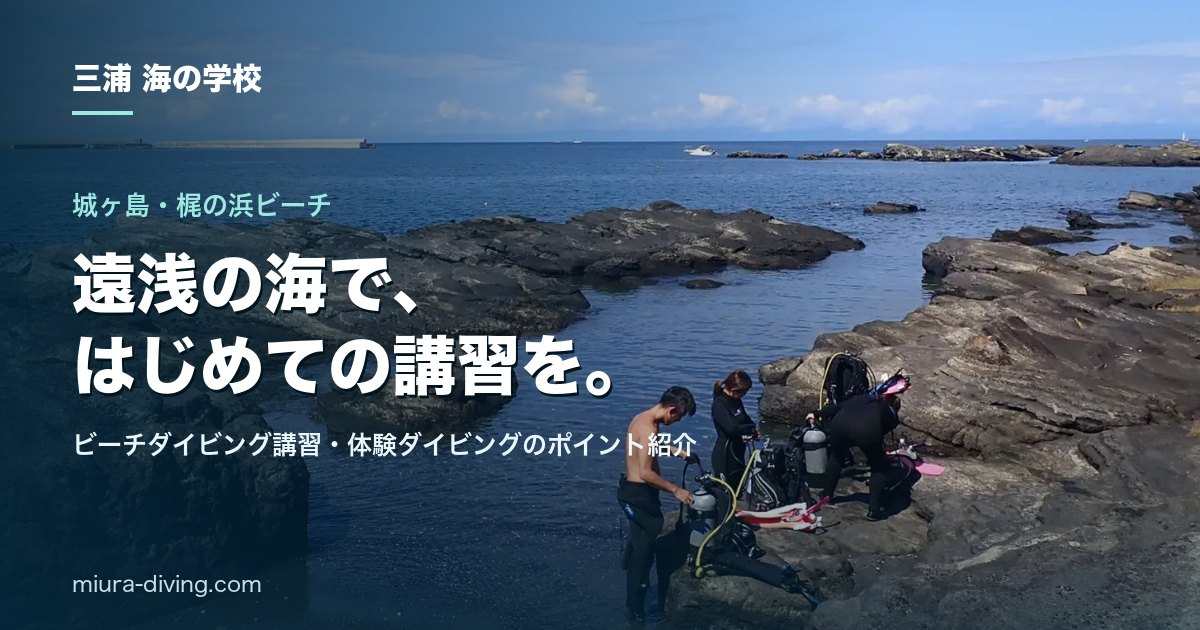
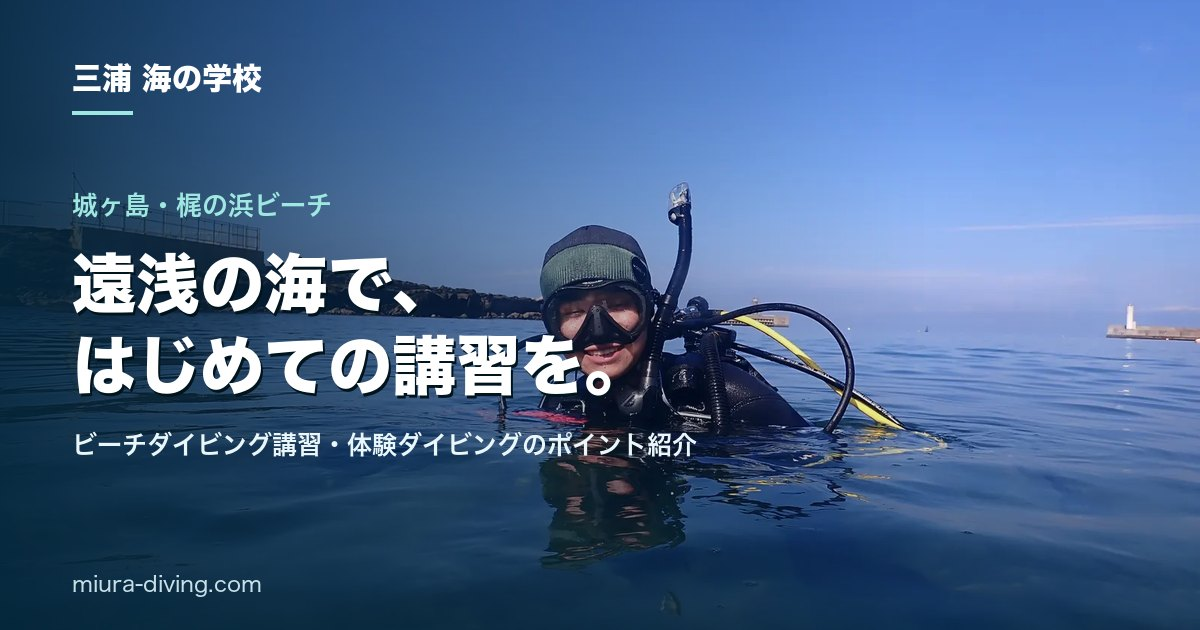
場所の写真を吉田さん確認済みのものに差し替え、ファンダイビングに梶の浜のポイントマップを戻す
- 城ヶ島・梶の浜ビーチ：岩場の写真（miura-hero2・梶の浜ではない）→ 白い灯台の堤防が写る水面の写真（P9248333 / P9088189）
  ファンダイビング・ライセンス・神奈川・図鑑・スノーケリングの各カードと、梶の浜ページのヒーロー・OGP
- 城ヶ島ボート：浮き桟橋の写真 → 船の上のタンクの写真（P9108194）。ボートのプランは宮川湾（9/13）の写真に
- ファンダイビングの「潜る場所」に梶の浜のポイントマップを戻し、カサゴ根・トビ根と3枚並べた
- 写真の上に文字が重なって顔が隠れないよう、場所カードを縦長に（page.css?v=2026092802）

diff --git a/fun-diving/index.html b/fun-diving/index.html
@@ -36,7 +36,7 @@
   <script>document.documentElement.classList.add('js')</script>
   <link rel="preload" as="image" href="/image/sub/fun-hero-800.webp" imagesrcset="/image/sub/fun-hero-800.webp 800w, /image/sub/fun-hero-1600.webp 1600w" imagesizes="100vw" fetchpriority="high">
   <link rel="stylesheet" href="/css/style.css?v=20260905">
-  <link rel="stylesheet" href="/css/page.css?v=2026092801">
+  <link rel="stylesheet" href="/css/page.css?v=2026092802">
 
   <!-- Webフォントは表示を止めない（display=optional：間に合わなければ端末の丸ゴシックで描き、文字のずれを起こさない） -->
   <link rel="preconnect" href="https://fonts.googleapis.com">
@@ -370,7 +370,7 @@
 
         <div class="grid grid--3">
           <div class="card plan">
-            <span class="card__img"><img src="/image/sub/surface-blue-960.webp" alt="晴れた日の三浦の海で、水面に浮かんでエントリーを待つダイバー" width="960" height="720" loading="lazy" decoding="async"></span>
+            <span class="card__img"><img src="/image/sub/beach-surface-960.webp" alt="城ヶ島・梶の浜ビーチの水面で、笑顔を見せるダイバー" width="960" height="720" loading="lazy" decoding="async"></span>
             <span class="tag">はじめてのファンダイビングにも</span>
             <h3>ビーチダイビング<small>2ダイブ・城ヶ島</small></h3>
             <p class="price">¥13,200<small>税込</small></p>
@@ -382,7 +382,7 @@
             <a class="btn-line" href="https://lin.ee/kK3d5p2" target="_blank" rel="noopener noreferrer" data-line-msg="ビーチのファンダイビングの空き日程を知りたいです。"><span class="line-mark"><svg aria-hidden="true"><use href="#i-line"/></svg></span>ビーチの空きを聞く</a>
           </div>
           <div class="card plan">
-            <span class="card__img"><img src="/image/sub/boat-tank-960.webp" alt="ボートダイビングの船の上に並ぶタンクとBCD" width="960" height="720" loading="lazy" decoding="async"></span>
+            <span class="card__img"><img src="/image/sub/boat-divers-960.webp" alt="宮川湾のボートダイビングで、ロープのそばを潜っていくダイバーたち" width="960" height="720" loading="lazy" decoding="async"></span>
             <span class="tag">船でしか行けない海へ</span>
             <h3>ボートダイビング<small>2ダイブ・宮川湾／城ヶ島</small></h3>
             <p class="price">¥19,800<small>税込</small></p>
@@ -477,7 +477,7 @@
 
         <div class="places">
           <a class="place" href="/diving-point/jogashima-kajinohama/">
-            <img src="/image/optimized/miura-hero2.webp" alt="城ヶ島の岩場の海と、エントリーの準備をするダイバーたち" width="1600" height="667" loading="lazy" decoding="async">
+            <img src="/image/sub/kajinohama-card-960.webp" alt="城ヶ島・梶の浜ビーチの穏やかな水面で、笑顔でエントリーを待つダイバー" width="960" height="562" loading="lazy" decoding="async">
             <div class="place__in">
               <span class="place__no">BEACH — JOGASHIMA</span>
               <h3>城ヶ島・梶の浜ビーチ</h3>
@@ -495,7 +495,7 @@
             </div>
           </div>
           <div class="place">
-            <img src="/image/sub/boat-entry-960.webp" alt="港の浮き桟橋から、タンクを背負って海へ向かうダイバー" width="960" height="720" loading="lazy" decoding="async">
+            <img src="/image/sub/boat-tank-960.webp" alt="城ヶ島のボートダイビングで、船の上に並ぶタンクとBCD" width="960" height="720" loading="lazy" decoding="async">
             <div class="place__in">
               <span class="place__no">BOAT — JOGASHIMA</span>
               <h3>城ヶ島ボート</h3>
@@ -505,8 +505,18 @@
           </div>
         </div>
 
-        <h3 class="h-title mt-2" style="font-size:clamp(1.2rem,2.8vw,1.5rem)">宮川湾のボートポイント</h3>
-        <div class="maps">
+        <h3 class="h-title mt-2" style="font-size:clamp(1.2rem,2.8vw,1.5rem)">ポイントマップ<span class="nw">（城ヶ島ビーチ・宮川湾ボート）</span></h3>
+        <div class="maps maps--3">
+          <article class="map-card">
+            <figure><a href="/diving-point/jogashima-kajinohama/"><img src="/image/sub/kajinohama-map-900.webp" srcset="/image/sub/kajinohama-map-900.webp 900w, /image/jogashima-kajinohama-map.webp 1800w" sizes="(min-width: 960px) 360px, 100vw" alt="城ヶ島 梶の浜ビーチのポイントマップ。手前の護岸の左奥にエントリー階段があり、海には大きな岩盤がいくつも並び、そのあいだに砂地が広がる。外周ルートとコース、目印ブイの位置を描いている" width="1800" height="2548" loading="lazy" decoding="async"></a></figure>
+            <div class="map-card__body">
+              <h4 class="h-title" style="font-size:1.12rem;margin-bottom:.3rem">城ヶ島・梶の浜ビーチ</h4>
+              <span class="depth">ビーチ</span>
+              <p>ビーチダイビングでは、海況に合わせて城ヶ島の梶の浜ビーチポイントを利用することがあります。岩場のウミウシ、砂地のエイ、季節来遊魚など、浅場から三浦らしい生き物観察を楽しめます。</p>
+              <ul class="chips"><li>岩場のウミウシ</li><li>砂地のエイ</li><li>秋の季節来遊魚</li></ul>
+              <p class="mt-1"><a class="link-arrow" href="/diving-point/jogashima-kajinohama/">ポイント紹介と地図の見方</a></p>
+            </div>
+          </article>
           <article class="map-card">
             <figure><img src="/image/miyagawa-kasagone-map.webp" alt="宮川湾カサゴ根の水中マップ。根の上は水深約4m、周囲の砂地は水深14〜18m。ブイからガイドロープで根へ移動する" width="1024" height="1536" loading="lazy" decoding="async"></figure>
             <div class="map-card__body">

diff --git a/.agents/subpages-2026-09/pages/fun-diving.html b/.agents/subpages-2026-09/pages/fun-diving.html
@@ -83,7 +83,7 @@ META-->
 
         <div class="grid grid--3">
           <div class="card plan">
-            <span class="card__img"><img src="/image/sub/surface-blue-960.webp" alt="晴れた日の三浦の海で、水面に浮かんでエントリーを待つダイバー" width="960" height="720" loading="lazy" decoding="async"></span>
+            <span class="card__img"><img src="/image/sub/beach-surface-960.webp" alt="城ヶ島・梶の浜ビーチの水面で、笑顔を見せるダイバー" width="960" height="720" loading="lazy" decoding="async"></span>
             <span class="tag">はじめてのファンダイビングにも</span>
             <h3>ビーチダイビング<small>2ダイブ・城ヶ島</small></h3>
             <p class="price">¥13,200<small>税込</small></p>
@@ -95,7 +95,7 @@ META-->
             <a class="btn-line" href="https://lin.ee/kK3d5p2" target="_blank" rel="noopener noreferrer" data-line-msg="ビーチのファンダイビングの空き日程を知りたいです。"><span class="line-mark"><svg aria-hidden="true"><use href="#i-line"/></svg></span>ビーチの空きを聞く</a>
           </div>
           <div class="card plan">
-            <span class="card__img"><img src="/image/sub/boat-tank-960.webp" alt="ボートダイビングの船の上に並ぶタンクとBCD" width="960" height="720" loading="lazy" decoding="async"></span>
+            <span class="card__img"><img src="/image/sub/boat-divers-960.webp" alt="宮川湾のボートダイビングで、ロープのそばを潜っていくダイバーたち" width="960" height="720" loading="lazy" decoding="async"></span>
             <span class="tag">船でしか行けない海へ</span>
             <h3>ボートダイビング<small>2ダイブ・宮川湾／城ヶ島</small></h3>
             <p class="price">¥19,800<small>税込</small></p>
@@ -190,7 +190,7 @@ META-->
 
         <div class="places">
           <a class="place" href="/diving-point/jogashima-kajinohama/">
-            <img src="/image/optimized/miura-hero2.webp" alt="城ヶ島の岩場の海と、エントリーの準備をするダイバーたち" width="1600" height="667" loading="lazy" decoding="async">
+            <img src="/image/sub/kajinohama-card-960.webp" alt="城ヶ島・梶の浜ビーチの穏やかな水面で、笑顔でエントリーを待つダイバー" width="960" height="562" loading="lazy" decoding="async">
             <div class="place__in">
               <span class="place__no">BEACH — JOGASHIMA</span>
               <h3>城ヶ島・梶の浜ビーチ</h3>
@@ -208,7 +208,7 @@ META-->
             </div>
           </div>
           <div class="place">
-            <img src="/image/sub/boat-entry-960.webp" alt="港の浮き桟橋から、タンクを背負って海へ向かうダイバー" width="960" height="720" loading="lazy" decoding="async">
+            <img src="/image/sub/boat-tank-960.webp" alt="城ヶ島のボートダイビングで、船の上に並ぶタンクとBCD" width="960" height="720" loading="lazy" decoding="async">
             <div class="place__in">
               <span class="place__no">BOAT — JOGASHIMA</span>
               <h3>城ヶ島ボート</h3>
@@ -218,8 +218,18 @@ META-->
           </div>
         </div>
 
-        <h3 class="h-title mt-2" style="font-size:clamp(1.2rem,2.8vw,1.5rem)">宮川湾のボートポイント</h3>
-        <div class="maps">
+        <h3 class="h-title mt-2" style="font-size:clamp(1.2rem,2.8vw,1.5rem)">ポイントマップ<span class="nw">（城ヶ島ビーチ・宮川湾ボート）</span></h3>
+        <div class="maps maps--3">
+          <article class="map-card">
+            <figure><a href="/diving-point/jogashima-kajinohama/"><img src="/image/sub/kajinohama-map-900.webp" srcset="/image/sub/kajinohama-map-900.webp 900w, /image/jogashima-kajinohama-map.webp 1800w" sizes="(min-width: 960px) 360px, 100vw" alt="城ヶ島 梶の浜ビーチのポイントマップ。手前の護岸の左奥にエントリー階段があり、海には大きな岩盤がいくつも並び、そのあいだに砂地が広がる。外周ルートとコース、目印ブイの位置を描いている" width="1800" height="2548" loading="lazy" decoding="async"></a></figure>
+            <div class="map-card__body">
+              <h4 class="h-title" style="font-size:1.12rem;margin-bottom:.3rem">城ヶ島・梶の浜ビーチ</h4>
+              <span class="depth">ビーチ</span>
+              <p>ビーチダイビングでは、海況に合わせて城ヶ島の梶の浜ビーチポイントを利用することがあります。岩場のウミウシ、砂地のエイ、季節来遊魚など、浅場から三浦らしい生き物観察を楽しめます。</p>
+              <ul class="chips"><li>岩場のウミウシ</li><li>砂地のエイ</li><li>秋の季節来遊魚</li></ul>
+              <p class="mt-1"><a class="link-arrow" href="/diving-point/jogashima-kajinohama/">ポイント紹介と地図の見方</a></p>
+            </div>
+          </article>
           <article class="map-card">
             <figure><img src="/image/miyagawa-kasagone-map.webp" alt="宮川湾カサゴ根の水中マップ。根の上は水深約4m、周囲の砂地は水深14〜18m。ブイからガイドロープで根へ移動する" width="1024" height="1536" loading="lazy" decoding="async"></figure>
             <div class="map-card__body">

diff --git a/diving-point/jogashima-kajinohama/index.html b/diving-point/jogashima-kajinohama/index.html
@@ -34,8 +34,9 @@
   <meta name="twitter:image" content="https://miura-diving.com/image/og-kajinohama.jpg">
 
   <script>document.documentElement.classList.add('js')</script>
+  <link rel="preload" as="image" href="/image/sub/trial-hero-800.webp" imagesrcset="/image/sub/trial-hero-800.webp 800w, /image/sub/trial-hero-1600.webp 1600w" imagesizes="100vw" fetchpriority="high">
   <link rel="stylesheet" href="/css/style.css?v=20260905">
-  <link rel="stylesheet" href="/css/page.css?v=2026092801">
+  <link rel="stylesheet" href="/css/page.css?v=2026092802">
 
   <!-- Webフォントは表示を止めない（display=optional：間に合わなければ端末の丸ゴシックで描き、文字のずれを起こさない） -->
   <link rel="preconnect" href="https://fonts.googleapis.com">
@@ -101,7 +102,7 @@
         ],
         "description": "神奈川県三浦市・城ヶ島のビーチダイビングポイント。エントリー階段から岩場・砂地へアクセスでき、浅場から少しずつ深くなる遠浅の海。三浦 海の学校のビーチダイビングやダイビングライセンス講習で、海況に合わせて利用することがある。",
         "url": "https://miura-diving.com/diving-point/jogashima-kajinohama/",
-        "image": "https://miura-diving.com/image/optimized/miura-hero2.webp",
+        "image": "https://miura-diving.com/image/sub/trial-hero-1600.webp",
         "hasMap": {
           "@type": "Map",
           "mapType": "https://schema.org/VenueMap",
@@ -242,10 +243,10 @@
     <!-- ============================================================
          HERO
          ============================================================ -->
-    <section class="ph" aria-labelledby="page-title" style="--pos: 62% 60%">
+    <section class="ph" aria-labelledby="page-title" style="--pos: 55% 45%">
       <picture class="ph__bg">
-        <img src="/image/optimized/miura-hero2.webp"
-          alt="城ヶ島の岩場に囲まれた浅い入り江で、エントリーの準備をするダイバーたち" width="1600" height="667" fetchpriority="high" decoding="async">
+        <img src="/image/sub/trial-hero-1600.webp" srcset="/image/sub/trial-hero-800.webp 800w, /image/sub/trial-hero-1600.webp 1600w" sizes="100vw"
+          alt="城ヶ島・梶の浜ビーチの穏やかな水面で、笑顔でエントリーを待つダイバー" width="1600" height="1200" fetchpriority="high" decoding="async">
       </picture>
       <div class="ph__inner">
         <nav class="crumbs" aria-label="パンくずリスト">
@@ -529,7 +530,7 @@
         </div>
         <div class="grid grid--3">
           <a class="card" href="/trial-diving/">
-            <span class="card__img"><img src="/image/sub/trial-hero-800.webp" alt="晴れた日の三浦の海で、水面に浮かんでエントリーを待つダイバー" width="800" height="600" loading="lazy" decoding="async"></span>
+            <span class="card__img"><img src="/image/optimized/enjoy-shallow-peace.webp" alt="城ヶ島の浅瀬で笑顔でピースする体験ダイビングの参加者" width="800" height="534" loading="lazy" decoding="async"></span>
             <span class="tag">ライセンスがなくても</span>
             <h3>体験ダイビング<small>¥19,800（税込・レンタル器材込み）</small></h3>
             <p>はじめての方は、体験ダイビングから。穏やかな浅場で練習してから海へ。海に慣れるところから丁寧に進めます。</p>

diff --git a/.agents/subpages-2026-09/pages/kajinohama.html b/.agents/subpages-2026-09/pages/kajinohama.html
@@ -9,6 +9,7 @@
   "ogDesc": "城ヶ島・梶の浜ビーチのポイントマップ、会える生き物、潜る日の流れ。ビーチ講習・体験ダイビング・ファンダイビングで使うことがある、三浦の遠浅の海です。",
   "og": "/image/og-kajinohama.jpg",
   "ogAlt": "城ヶ島の岩場の海で、潜る準備をするダイバーたちと「遠浅の海で、はじめての講習を。」の文字",
+  "hero": {"800": "/image/sub/trial-hero-800.webp", "1600": "/image/sub/trial-hero-1600.webp"},
   "crumbs": [["城ヶ島・梶の浜ビーチ", "/diving-point/jogashima-kajinohama/"]],
   "about": "https://miura-diving.com/diving-point/jogashima-kajinohama/#place",
   "ask": {
@@ -24,10 +25,10 @@ META-->
     <!-- ============================================================
          HERO
          ============================================================ -->
-    <section class="ph" aria-labelledby="page-title" style="--pos: 62% 60%">
+    <section class="ph" aria-labelledby="page-title" style="--pos: 55% 45%">
       <picture class="ph__bg">
-        <img src="/image/optimized/miura-hero2.webp"
-          alt="城ヶ島の岩場に囲まれた浅い入り江で、エントリーの準備をするダイバーたち" width="1600" height="667" fetchpriority="high" decoding="async">
+        <img src="/image/sub/trial-hero-1600.webp" srcset="/image/sub/trial-hero-800.webp 800w, /image/sub/trial-hero-1600.webp 1600w" sizes="100vw"
+          alt="城ヶ島・梶の浜ビーチの穏やかな水面で、笑顔でエントリーを待つダイバー" width="1600" height="1200" fetchpriority="high" decoding="async">
       </picture>
       <div class="ph__inner">
         <nav class="crumbs" aria-label="パンくずリスト">
@@ -311,7 +312,7 @@ META-->
         </div>
         <div class="grid grid--3">
           <a class="card" href="/trial-diving/">
-            <span class="card__img"><img src="/image/sub/trial-hero-800.webp" alt="晴れた日の三浦の海で、水面に浮かんでエントリーを待つダイバー" width="800" height="600" loading="lazy" decoding="async"></span>
+            <span class="card__img"><img src="/image/optimized/enjoy-shallow-peace.webp" alt="城ヶ島の浅瀬で笑顔でピースする体験ダイビングの参加者" width="800" height="534" loading="lazy" decoding="async"></span>
             <span class="tag">ライセンスがなくても</span>
             <h3>体験ダイビング<small>¥19,800（税込・レンタル器材込み）</small></h3>
             <p>はじめての方は、体験ダイビングから。穏やかな浅場で練習してから海へ。海に慣れるところから丁寧に進めます。</p>

diff --git a/css/page.css b/css/page.css
@@ -570,7 +570,7 @@ a.card:hover .card__img img { transform: scale(1.04); }
    PLACES — 海洋実習・ダイビングの場所（写真カード）
    ================================================================ */
 .places { display: grid; grid-template-columns: repeat(3, minmax(0, 1fr)); gap: 1rem; }
-.place { position: relative; border-radius: 24px; overflow: hidden; color: #fff; min-height: 300px; display: flex; flex-direction: column; justify-content: flex-end; text-decoration: none; background: var(--deep-3); isolation: isolate; }
+.place { position: relative; border-radius: 24px; overflow: hidden; color: #fff; min-height: 370px; display: flex; flex-direction: column; justify-content: flex-end; text-decoration: none; background: var(--deep-3); isolation: isolate; }
 .place img { position: absolute; inset: 0; width: 100%; height: 100%; object-fit: cover; z-index: -2; transition: transform .7s ease; }
 .place::before { content: ""; position: absolute; inset: 0; z-index: -1; background: linear-gradient(180deg, rgba(4, 38, 58, 0) 30%, rgba(4, 38, 58, .88) 100%); }
 a.place:hover img { transform: scale(1.05); }
@@ -581,7 +581,7 @@ a.place:hover { color: #fff; }
 .place p { font-size: .85rem; line-height: 1.75; opacity: .94; }
 .place .chips li { background: rgba(255, 255, 255, .16); color: #fff; }
 @media (max-width: 959px) { .places { grid-template-columns: 1fr 1fr; } }
-@media (max-width: 640px) { .places { grid-template-columns: minmax(0, 1fr); } .place { min-height: 260px; } }
+@media (max-width: 640px) { .places { grid-template-columns: minmax(0, 1fr); } .place { min-height: 400px; } }
 
 /* ---------- 地図（手描きのポイントマップ） ---------- */
 .maps { display: grid; grid-template-columns: repeat(2, minmax(0, 1fr)); gap: 1rem; }
@@ -594,6 +594,8 @@ a.place:hover { color: #fff; }
 .map-card__body .depth { display: inline-block; font-size: .76rem; font-weight: 700; color: #fff; background: var(--sky-ink); border-radius: 999px; padding: .15rem .7rem; margin-bottom: .5rem; }
 .map-card__body p { font-size: .9rem; line-height: 1.85; color: var(--text-sub); }
 .map-card__body .chips { margin-top: .7rem; }
+@media (min-width: 960px) { .maps--3 { grid-template-columns: repeat(3, minmax(0, 1fr)); } }
+@media (min-width: 768px) and (max-width: 959px) { .maps--3 .map-card:first-child { grid-column: 1 / -1; } .maps--3 .map-card:first-child figure img { max-height: 460px; } }
 @media (max-width: 767px) { .maps { grid-template-columns: minmax(0, 1fr); } }
 
 /* ---------- 生き物のギャラリー ---------- */

diff --git a/sea-life/index.html b/sea-life/index.html
@@ -35,7 +35,7 @@
 
   <script>document.documentElement.classList.add('js')</script>
   <link rel="stylesheet" href="/css/style.css?v=20260905">
-  <link rel="stylesheet" href="/css/page.css?v=2026092801">
+  <link rel="stylesheet" href="/css/page.css?v=2026092802">
 
   <!-- Webフォントは表示を止めない（display=optional：間に合わなければ端末の丸ゴシックで描き、文字のずれを起こさない） -->
   <link rel="preconnect" href="https://fonts.googleapis.com">
@@ -617,14 +617,14 @@
             <span class="go">ファンダイビングを見る</span>
           </a>
           <a class="card" href="/diving-point/jogashima-kajinohama/">
-            <span class="card__img"><img src="/image/optimized/miura-hero2.webp" alt="城ヶ島の岩場に囲まれた浅い入り江で、エントリーの準備をするダイバーたち" width="1600" height="667" loading="lazy" decoding="async"></span>
+            <span class="card__img"><img src="/image/sub/surface-blue-960.webp" alt="城ヶ島・梶の浜ビーチの穏やかな水面で、笑顔でエントリーを待つダイバー" width="960" height="720" loading="lazy" decoding="async"></span>
             <span class="tag">ビーチのポイント</span>
             <h3>城ヶ島・梶の浜ビーチ<small>ポイントマップと、会える生き物</small></h3>
             <p>エントリー階段、岩盤、砂地、目印ブイ。ビーチで観察しやすい生き物も紹介しています。</p>
             <span class="go">ポイントマップを見る</span>
           </a>
           <a class="card" href="/trial-diving/">
-            <span class="card__img"><img src="/image/sub/trial-hero-800.webp" alt="晴れた日の三浦の海で、水面に浮かんでエントリーを待つダイバー" width="800" height="600" loading="lazy" decoding="async"></span>
+            <span class="card__img"><img src="/image/optimized/enjoy-shallow-peace.webp" alt="城ヶ島の浅瀬で笑顔でピースする体験ダイビングの参加者" width="800" height="534" loading="lazy" decoding="async"></span>
             <span class="tag">ライセンスがなくても</span>
             <h3>体験ダイビング<small>¥19,800（税込・レンタル器材込み）</small></h3>
             <p>Cカードがなくても、インストラクターと一緒に三浦の海へ。10歳から、年齢の上限はありません。</p>

diff --git a/.agents/subpages-2026-09/pages/sea-life.html b/.agents/subpages-2026-09/pages/sea-life.html
@@ -485,14 +485,14 @@ META-->
             <span class="go">ファンダイビングを見る</span>
           </a>
           <a class="card" href="/diving-point/jogashima-kajinohama/">
-            <span class="card__img"><img src="/image/optimized/miura-hero2.webp" alt="城ヶ島の岩場に囲まれた浅い入り江で、エントリーの準備をするダイバーたち" width="1600" height="667" loading="lazy" decoding="async"></span>
+            <span class="card__img"><img src="/image/sub/surface-blue-960.webp" alt="城ヶ島・梶の浜ビーチの穏やかな水面で、笑顔でエントリーを待つダイバー" width="960" height="720" loading="lazy" decoding="async"></span>
             <span class="tag">ビーチのポイント</span>
             <h3>城ヶ島・梶の浜ビーチ<small>ポイントマップと、会える生き物</small></h3>
             <p>エントリー階段、岩盤、砂地、目印ブイ。ビーチで観察しやすい生き物も紹介しています。</p>
             <span class="go">ポイントマップを見る</span>
           </a>
           <a class="card" href="/trial-diving/">
-            <span class="card__img"><img src="/image/sub/trial-hero-800.webp" alt="晴れた日の三浦の海で、水面に浮かんでエントリーを待つダイバー" width="800" height="600" loading="lazy" decoding="async"></span>
+            <span class="card__img"><img src="/image/optimized/enjoy-shallow-peace.webp" alt="城ヶ島の浅瀬で笑顔でピースする体験ダイビングの参加者" width="800" height="534" loading="lazy" decoding="async"></span>
             <span class="tag">ライセンスがなくても</span>
             <h3>体験ダイビング<small>¥19,800（税込・レンタル器材込み）</small></h3>
             <p>Cカードがなくても、インストラクターと一緒に三浦の海へ。10歳から、年齢の上限はありません。</p>

diff --git a/kanagawa-diving-license/index.html b/kanagawa-diving-license/index.html
@@ -36,7 +36,7 @@
   <script>document.documentElement.classList.add('js')</script>
   <link rel="preload" as="image" href="/image/sub/kanagawa-hero-800.webp" imagesrcset="/image/sub/kanagawa-hero-800.webp 800w, /image/sub/kanagawa-hero-1600.webp 1600w" imagesizes="100vw" fetchpriority="high">
   <link rel="stylesheet" href="/css/style.css?v=20260905">
-  <link rel="stylesheet" href="/css/page.css?v=2026092801">
+  <link rel="stylesheet" href="/css/page.css?v=2026092802">
 
   <!-- Webフォントは表示を止めない（display=optional：間に合わなければ端末の丸ゴシックで描き、文字のずれを起こさない） -->
   <link rel="preconnect" href="https://fonts.googleapis.com">
@@ -578,7 +578,7 @@
             <span class="go">ガイドを読む</span>
           </a>
           <a class="card" href="/diving-point/jogashima-kajinohama/">
-            <span class="card__img"><img src="/image/optimized/miura-hero2.webp" alt="城ヶ島の岩場の海で、講習の準備をするダイバーたち" width="1600" height="667" loading="lazy" decoding="async"></span>
+            <span class="card__img"><img src="/image/sub/surface-blue-960.webp" alt="城ヶ島・梶の浜ビーチの穏やかな水面で、笑顔でエントリーを待つダイバー" width="960" height="720" loading="lazy" decoding="async"></span>
             <span class="tag">実習の海</span>
             <h3>城ヶ島・梶の浜ビーチ</h3>
             <p>オープンウォーターの実習の中心になる、遠浅のビーチポイント。</p>

diff --git a/license/index.html b/license/index.html
@@ -36,7 +36,7 @@
   <script>document.documentElement.classList.add('js')</script>
   <link rel="preload" as="image" href="/image/sub/license-hero-800.webp" imagesrcset="/image/sub/license-hero-800.webp 800w, /image/sub/license-hero-1600.webp 1600w" imagesizes="100vw" fetchpriority="high">
   <link rel="stylesheet" href="/css/style.css?v=20260905">
-  <link rel="stylesheet" href="/css/page.css?v=2026092801">
+  <link rel="stylesheet" href="/css/page.css?v=2026092802">
 
   <!-- Webフォントは表示を止めない（display=optional：間に合わなければ端末の丸ゴシックで描き、文字のずれを起こさない） -->
   <link rel="preconnect" href="https://fonts.googleapis.com">
@@ -603,7 +603,7 @@
         </div>
         <div class="places">
           <a class="place" href="/diving-point/jogashima-kajinohama/">
-            <img src="/image/optimized/miura-hero2.webp" alt="城ヶ島の岩場の海で、講習の準備をするダイバーたち" width="1600" height="667" loading="lazy" decoding="async">
+            <img src="/image/sub/kajinohama-card-960.webp" alt="城ヶ島・梶の浜ビーチの穏やかな水面で、笑顔でエントリーを待つダイバー" width="960" height="562" loading="lazy" decoding="async">
             <div class="place__in">
               <span class="place__no">01 — JOGASHIMA BEACH</span>
               <h3>城ヶ島ビーチ</h3>

diff --git a/marine-activity/index.html b/marine-activity/index.html
@@ -36,7 +36,7 @@
   <script>document.documentElement.classList.add('js')</script>
   <link rel="preload" as="image" href="/image/sub/snorkel-hero-800.webp" imagesrcset="/image/sub/snorkel-hero-800.webp 800w, /image/sub/snorkel-hero-1600.webp 1600w" imagesizes="100vw" fetchpriority="high">
   <link rel="stylesheet" href="/css/style.css?v=20260905">
-  <link rel="stylesheet" href="/css/page.css?v=2026092801">
+  <link rel="stylesheet" href="/css/page.css?v=2026092802">
 
   <!-- Webフォントは表示を止めない（display=optional：間に合わなければ端末の丸ゴシックで描き、文字のずれを起こさない） -->
   <link rel="preconnect" href="https://fonts.googleapis.com">
@@ -481,7 +481,7 @@
       <div class="h-wrap">
         <div class="split split--rev">
           <figure class="split__media">
-            <img src="/image/optimized/miura-hero2.webp" alt="城ヶ島の岩場に囲まれた、穏やかな入り江の海" width="1600" height="667" loading="lazy" decoding="async">
+            <img src="/image/sub/surface-blue-960.webp" alt="城ヶ島・梶の浜の穏やかな海と、白い灯台の見える堤防" width="960" height="720" loading="lazy" decoding="async">
             <p class="split__badge"><b>城ヶ島・三戸浜</b><span>その日の海況で、安全に楽しめる場所へ</span></p>
           </figure>
           <div class="split__body">

diff --git a/.agents/subpages-2026-09/tools/section.js b/.agents/subpages-2026-09/tools/section.js
@@ -1,0 +1,16 @@
+// 使い方: node section.js <path> <selector> <width> <out.png>
+const { chromium } = require('playwright-core');
+(async () => {
+  const [path, sel, w, out] = process.argv.slice(2);
+  const b = await chromium.launch({ executablePath: '/Applications/Google Chrome.app/Contents/MacOS/Google Chrome' });
+  const p = await b.newPage({ viewport: { width: +w, height: 900 }, isMobile: +w < 800 });
+  await p.route(u => u.pathname.endsWith('/'), async r => { const f = await r.fetch(); await r.fulfill({ response: f, body: (await f.text()).replace(/ loading="lazy"/g, ''), headers: { ...f.headers(), 'content-type': 'text/html; charset=utf-8' } }); });
+  await p.goto('http://127.0.0.1:8978/' + path, { waitUntil: 'load' });
+  await p.addStyleTag({ content: '.site-header,.lnav,.mobile-cta-bar{visibility:hidden!important}' });
+  const el = await p.$(sel);
+  await el.scrollIntoViewIfNeeded();
+  await p.evaluate(async s => { const imgs = [...document.querySelector(s).querySelectorAll('img')]; await Promise.all(imgs.map(i => i.complete && i.naturalWidth ? 0 : new Promise(r => { i.onload = i.onerror = r; setTimeout(r, 6000); }))); await Promise.all(imgs.map(i => i.decode ? i.decode().catch(() => 0) : 0)); }, sel);
+  await p.waitForTimeout(500);
+  await el.screenshot({ path: out });
+  await b.close();
+})();

diff --git a/.agents/subpages-2026-09/pages/kanagawa-diving-license.html b/.agents/subpages-2026-09/pages/kanagawa-diving-license.html
@@ -345,7 +345,7 @@ META-->
             <span class="go">ガイドを読む</span>
           </a>
           <a class="card" href="/diving-point/jogashima-kajinohama/">
-            <span class="card__img"><img src="/image/optimized/miura-hero2.webp" alt="城ヶ島の岩場の海で、講習の準備をするダイバーたち" width="1600" height="667" loading="lazy" decoding="async"></span>
+            <span class="card__img"><img src="/image/sub/surface-blue-960.webp" alt="城ヶ島・梶の浜ビーチの穏やかな水面で、笑顔でエントリーを待つダイバー" width="960" height="720" loading="lazy" decoding="async"></span>
             <span class="tag">実習の海</span>
             <h3>城ヶ島・梶の浜ビーチ</h3>
             <p>オープンウォーターの実習の中心になる、遠浅のビーチポイント。</p>
